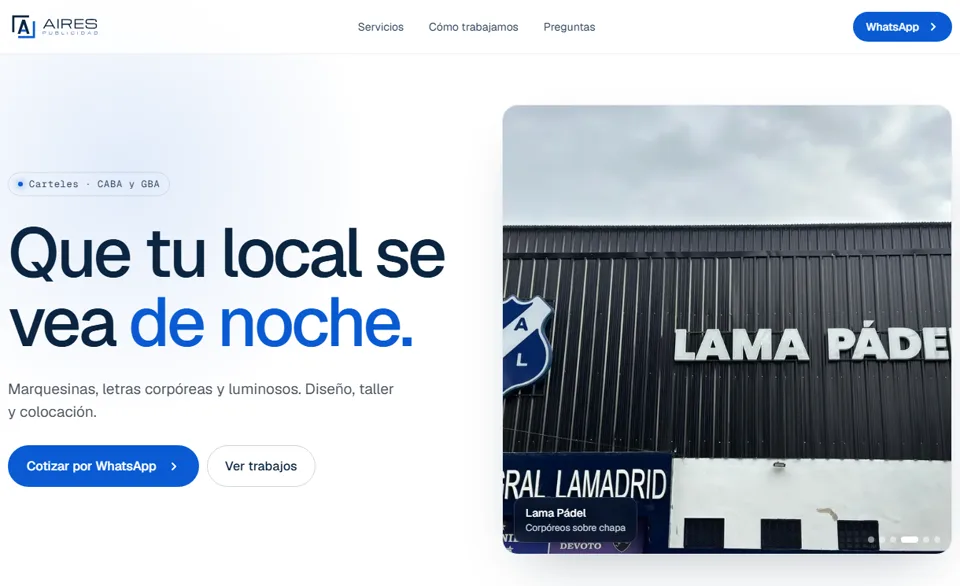
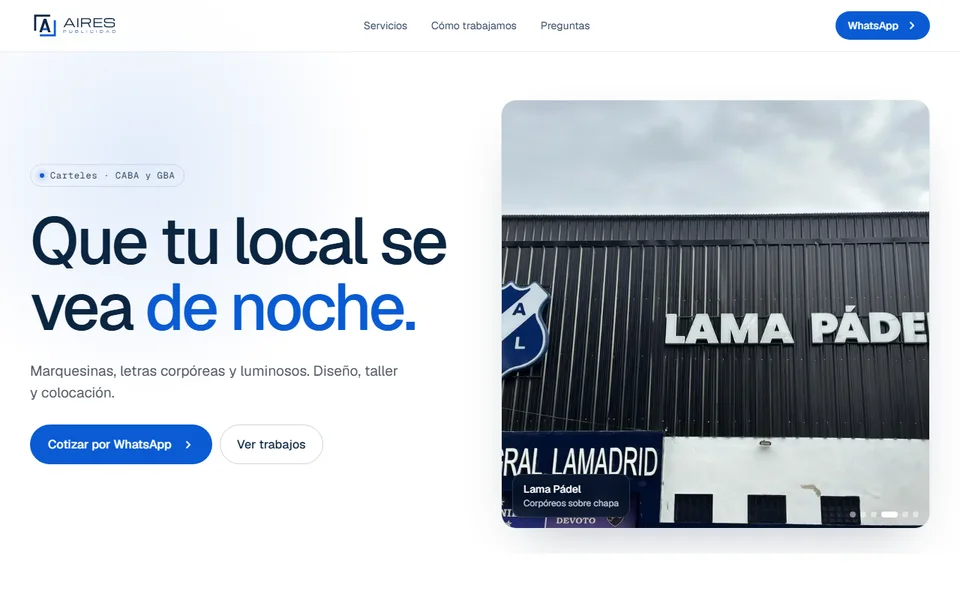
feat(diseno): paleta clara/oscura, diagrama animado y fichas corregidas
- Servicios y Proceso pasan a seccion clara (.section-light redefine los
  tokens); mas contraste de texto y tarjetas solidas en las oscuras.
- Menu fijo mas opaco para que no se vea gris sobre las secciones claras.
- Animated Beam (Magic UI) en la ficha del banco de trabajo con IA.
- Aires: la ficha gira alrededor del generador de presupuestos (56 h/mes,
  dato del cliente). Capturas nuevas de Aires y Party Market (grilla de
  productos en vez del banner).

diff --git a/es/index.html b/es/index.html
@@ -38,7 +38,7 @@
 <link rel="preload" as="image" href="/assets/img/logo-front-base.png?v=6" type="image/png">
 <link rel="preload" as="image" href="/assets/img/logo-front-circuits.svg?v=9" type="image/svg+xml">
 <link href="https://fonts.googleapis.com/css2?family=Inter:wght@400;500;600&family=Space+Grotesk:wght@500;600;700&display=swap" rel="stylesheet">
-<link rel="stylesheet" href="/assets/css/style.css?v=17">
+<link rel="stylesheet" href="/assets/css/style.css?v=20">
 <noscript><style>.reveal{opacity:1;transform:none}.step{opacity:1}</style></noscript>
 
 <script type="application/ld+json">
@@ -253,7 +253,7 @@
   </section>
 
   <!-- ── SERVICIOS ─────────────────────────────────────────────────────── -->
-  <section id="servicios">
+  <section class="section-light" id="servicios">
     <div class="wrap">
       <div class="section-head reveal">
         <p class="eyebrow">Servicios</p>
@@ -399,7 +399,7 @@
             <p class="case-kicker">El primer negocio de Hacé tu pedido que no es un restaurante.</p>
           </header>
           <figure class="case-media">
-            <img src="/assets/img/cases/partymarket.webp?v=1" alt="El catálogo de Party Market en un celular: el banner de Halloween, el descuento en efectivo y el buscador de productos" width="798" height="1792" loading="lazy" decoding="async">
+            <img src="/assets/img/cases/partymarket.webp?v=2" alt="El catálogo de Party Market en un celular: el banner de Halloween, el descuento en efectivo y el buscador de productos" width="960" height="600" loading="lazy" decoding="async">
           </figure>
           <dl class="case-body">
             <div>
@@ -423,28 +423,28 @@
         <article class="card case case-lg beam reveal">
           <header class="case-head">
             <span class="case-client">Aires Publicidad · cartelería</span>
-            <h3>airespublicidad.com.ar</h3>
-            <p class="case-kicker">Una landing que se puede rediseñar sin perder la medición.</p>
+            <h3>Generador de presupuestos y landing</h3>
+            <p class="case-kicker">Un generador de presupuestos que le devuelve al vendedor 56 horas por mes.</p>
           </header>
           <figure class="case-media">
-            <img src="/assets/img/cases/aires.webp?v=1" alt="La home de Aires Publicidad: el título, el botón para cotizar por WhatsApp y la foto de un cartel colocado" width="960" height="586" loading="lazy" decoding="async">
+            <img src="/assets/img/cases/aires.webp?v=2" alt="La home de Aires Publicidad: el título, el botón para cotizar por WhatsApp y la foto de un cartel colocado" width="960" height="600" loading="lazy" decoding="async">
           </figure>
           <dl class="case-body">
             <div>
               <dt>El problema</dt>
-              <dd>La landing sale de una herramienta de diseño y se reemplaza entera en cada rediseño, así que todo lo agregado a mano (SEO, medición, limpieza) desaparecía con el siguiente export. Además, la conversión del formulario se disparaba apenas alguien tipeaba una letra.</dd>
+              <dd>Armar cada presupuesto le comía horas del mes al vendedor. Además, la landing que trae las consultas perdía el SEO y la medición cada vez que se regeneraba el diseño.</dd>
             </div>
             <div>
               <dt>Lo que construimos</dt>
-              <dd>Un Worker de Cloudflare que reescribe el HTML al vuelo: títulos, datos estructurados, medición y ajustes de imágenes se inyectan en cada request y el archivo de diseño queda intacto. El clic en WhatsApp llega a Meta desde el navegador y desde el servidor con el mismo ID de evento, el formulario llega por mail y las siete URLs del sitio anterior redirigen conservando el identificador del clic del anuncio. Detrás de un código de acceso, un generador de presupuestos dibuja el PDF como texto vectorial.</dd>
+              <dd>Un generador de presupuestos detrás de un código de acceso: el vendedor carga los ítems y obtiene un PDF con la marca, dibujado como texto vectorial, y lo envía por WhatsApp o por mail con el detalle ya escrito. Alrededor, un Worker de Cloudflare inyecta el SEO y la medición en la landing en cada request, y el clic en WhatsApp llega a Meta desde el navegador y desde el servidor.</dd>
             </div>
             <div class="case-result">
               <dt>Resultado</dt>
-              <dd>Regenerar el diseño ya no borra nada, y la conversión del formulario cuenta solo los envíos confirmados. La página pesa 1,88 MB en un celular, y el PDF del presupuesto pasó de una imagen borrosa de 380 KB a 52 KB de texto que se puede buscar.</dd>
+              <dd>El generador le ahorra al vendedor 56 horas por mes. Cada PDF pesa 52 KB con texto nítido que se puede buscar, y rediseñar la landing ya no borra su medición.</dd>
             </div>
           </dl>
           <ul class="case-tags">
-            <li>Cloudflare Workers</li><li>Meta CAPI</li><li>GTM y GA4</li><li>jsPDF</li>
+            <li>Generador de presupuestos</li><li>jsPDF</li><li>Cloudflare Workers</li><li>Meta CAPI</li>
           </ul>
         </article>
 
@@ -531,6 +531,9 @@
         </article>
 
         <article class="card case reveal" style="--i:2">
+          <figure class="case-media case-diagram">
+            <svg viewBox="0 0 400 250" role="img" aria-label="Diagrama: los manuales de Meta, Google, SEO, email, copy y propuestas llegan a la IA, que trabaja con la memoria de un solo cliente a la vez"><path class="beam-base" d="M100 22 C150 22 150 125 170 125"/><path class="beam-flow" style="--d:-0.00s" d="M100 22 C150 22 150 125 170 125"/><path class="beam-base" d="M100 63 C150 63 150 125 170 125"/><path class="beam-flow" style="--d:-0.43s" d="M100 63 C150 63 150 125 170 125"/><path class="beam-base" d="M100 104 C150 104 150 125 170 125"/><path class="beam-flow" style="--d:-0.86s" d="M100 104 C150 104 150 125 170 125"/><path class="beam-base" d="M100 145 C150 145 150 125 170 125"/><path class="beam-flow" style="--d:-1.29s" d="M100 145 C150 145 150 125 170 125"/><path class="beam-base" d="M100 186 C150 186 150 125 170 125"/><path class="beam-flow" style="--d:-1.72s" d="M100 186 C150 186 150 125 170 125"/><path class="beam-base" d="M100 227 C150 227 150 125 170 125"/><path class="beam-flow" style="--d:-2.15s" d="M100 227 C150 227 150 125 170 125"/><path class="beam-base" d="M230 125 L258 125"/><path class="beam-flow beam-out" d="M230 125 L258 125"/><g class="beam-node"><rect x="4" y="7" width="96" height="30" rx="15"/><text x="52" y="27">Meta</text></g><g class="beam-node"><rect x="4" y="48" width="96" height="30" rx="15"/><text x="52" y="68">Google</text></g><g class="beam-node"><rect x="4" y="89" width="96" height="30" rx="15"/><text x="52" y="109">SEO</text></g><g class="beam-node"><rect x="4" y="130" width="96" height="30" rx="15"/><text x="52" y="150">Email</text></g><g class="beam-node"><rect x="4" y="171" width="96" height="30" rx="15"/><text x="52" y="191">Copy</text></g><g class="beam-node"><rect x="4" y="212" width="96" height="30" rx="15"/><text x="52" y="232">Propuestas</text></g><g class="beam-hub"><circle cx="200" cy="125" r="30"/><text x="200" y="132">IA</text></g><g class="beam-node beam-node-out"><rect x="258" y="105" width="138" height="40" rx="20"/><text x="327" y="121">Memoria</text><text x="327" y="137">del cliente</text></g></svg>
+          </figure>
           <header class="case-head">
             <span class="case-client">Worker · operación diaria</span>
             <h3>El banco de trabajo con IA de la agencia</h3>
@@ -695,7 +698,7 @@
   </section>
 
   <!-- ── PROCESO ───────────────────────────────────────────────────────── -->
-  <section class="process" id="proceso">
+  <section class="process section-light" id="proceso">
     <div class="wrap process-layout">
       <div class="process-sticky">
         <div class="reveal">

diff --git a/index.html b/index.html
@@ -38,7 +38,7 @@
 <link rel="preload" as="image" href="/assets/img/logo-front-base.png?v=6" type="image/png">
 <link rel="preload" as="image" href="/assets/img/logo-front-circuits.svg?v=9" type="image/svg+xml">
 <link href="https://fonts.googleapis.com/css2?family=Inter:wght@400;500;600&family=Space+Grotesk:wght@500;600;700&display=swap" rel="stylesheet">
-<link rel="stylesheet" href="/assets/css/style.css?v=17">
+<link rel="stylesheet" href="/assets/css/style.css?v=20">
 <noscript><style>.reveal{opacity:1;transform:none}.step{opacity:1}</style></noscript>
 
 <script type="application/ld+json">
@@ -253,7 +253,7 @@
   </section>
 
   <!-- ── SERVICES ──────────────────────────────────────────────────────── -->
-  <section id="services">
+  <section class="section-light" id="services">
     <div class="wrap">
       <div class="section-head reveal">
         <p class="eyebrow">Services</p>
@@ -399,7 +399,7 @@
             <p class="case-kicker">The first business on Hacé tu pedido that is not a restaurant.</p>
           </header>
           <figure class="case-media">
-            <img src="/assets/img/cases/partymarket.webp?v=1" alt="The Party Market catalogue on a phone: the Halloween banner, the cash discount and the product search" width="798" height="1792" loading="lazy" decoding="async">
+            <img src="/assets/img/cases/partymarket.webp?v=2" alt="The Party Market catalogue on a phone: the Halloween banner, the cash discount and the product search" width="960" height="600" loading="lazy" decoding="async">
           </figure>
           <dl class="case-body">
             <div>
@@ -423,28 +423,28 @@
         <article class="card case case-lg beam reveal">
           <header class="case-head">
             <span class="case-client">Aires Publicidad · signage</span>
-            <h3>airespublicidad.com.ar</h3>
-            <p class="case-kicker">A landing page that can be redesigned without losing its measurement.</p>
+            <h3>Quote generator and landing page</h3>
+            <p class="case-kicker">A quote generator that gives the sales rep back 56 hours a month.</p>
           </header>
           <figure class="case-media">
-            <img src="/assets/img/cases/aires.webp?v=1" alt="The Aires Publicidad home page: the headline, the WhatsApp quote button and a photo of an installed sign" width="960" height="586" loading="lazy" decoding="async">
+            <img src="/assets/img/cases/aires.webp?v=2" alt="The Aires Publicidad home page: the headline, the WhatsApp quote button and a photo of an installed sign" width="960" height="600" loading="lazy" decoding="async">
           </figure>
           <dl class="case-body">
             <div>
               <dt>The problem</dt>
-              <dd>The landing page comes out of a design tool and is replaced in full on every redesign, so anything added by hand (SEO, tracking, cleanup) vanished with the next export. On top of that, the form conversion fired as soon as someone typed a single letter.</dd>
+              <dd>Putting together every quote ate into the sales rep’s month. On top of that, the landing page that brings in the leads lost its SEO and tracking every time the design was regenerated.</dd>
             </div>
             <div>
               <dt>What we built</dt>
-              <dd>A Cloudflare Worker that rewrites the HTML on the fly: titles, structured data, tracking and image fixes are injected at request time and the design file stays untouched. WhatsApp clicks reach Meta from the browser and from the server with the same event ID, the contact form arrives by email, and the seven old URLs redirect keeping the ad click ID. Behind an access code, a quote generator draws its PDF as vector text.</dd>
+              <dd>A quote generator behind an access code: the rep loads the items and gets a branded PDF drawn as vector text, then sends it by WhatsApp or email with the detail already written. Around it, a Cloudflare Worker injects SEO and tracking into the landing page at request time, and WhatsApp clicks reach Meta from the browser and from the server.</dd>
             </div>
             <div class="case-result">
               <dt>Result</dt>
-              <dd>Regenerating the design no longer wipes anything out, and the form conversion counts only confirmed submissions. The page weighs 1.88 MB on a phone, and a quote PDF went from a 380 KB blurry image to 52 KB of searchable text.</dd>
+              <dd>The generator saves the sales rep 56 hours a month. Each PDF weighs 52 KB with sharp, searchable text, and redesigning the landing page no longer wipes out its measurement.</dd>
             </div>
           </dl>
           <ul class="case-tags">
-            <li>Cloudflare Workers</li><li>Meta CAPI</li><li>GTM and GA4</li><li>jsPDF</li>
+            <li>Quote generator</li><li>jsPDF</li><li>Cloudflare Workers</li><li>Meta CAPI</li>
           </ul>
         </article>
 
@@ -531,6 +531,9 @@
         </article>
 
         <article class="card case reveal" style="--i:2">
+          <figure class="case-media case-diagram">
+            <svg viewBox="0 0 400 250" role="img" aria-label="Diagram: Meta, Google, SEO, email, copy and proposals playbooks flow into the AI, which works with one client’s memory at a time"><path class="beam-base" d="M100 22 C150 22 150 125 170 125"/><path class="beam-flow" style="--d:-0.00s" d="M100 22 C150 22 150 125 170 125"/><path class="beam-base" d="M100 63 C150 63 150 125 170 125"/><path class="beam-flow" style="--d:-0.43s" d="M100 63 C150 63 150 125 170 125"/><path class="beam-base" d="M100 104 C150 104 150 125 170 125"/><path class="beam-flow" style="--d:-0.86s" d="M100 104 C150 104 150 125 170 125"/><path class="beam-base" d="M100 145 C150 145 150 125 170 125"/><path class="beam-flow" style="--d:-1.29s" d="M100 145 C150 145 150 125 170 125"/><path class="beam-base" d="M100 186 C150 186 150 125 170 125"/><path class="beam-flow" style="--d:-1.72s" d="M100 186 C150 186 150 125 170 125"/><path class="beam-base" d="M100 227 C150 227 150 125 170 125"/><path class="beam-flow" style="--d:-2.15s" d="M100 227 C150 227 150 125 170 125"/><path class="beam-base" d="M230 125 L258 125"/><path class="beam-flow beam-out" d="M230 125 L258 125"/><g class="beam-node"><rect x="4" y="7" width="96" height="30" rx="15"/><text x="52" y="27">Meta</text></g><g class="beam-node"><rect x="4" y="48" width="96" height="30" rx="15"/><text x="52" y="68">Google</text></g><g class="beam-node"><rect x="4" y="89" width="96" height="30" rx="15"/><text x="52" y="109">SEO</text></g><g class="beam-node"><rect x="4" y="130" width="96" height="30" rx="15"/><text x="52" y="150">Email</text></g><g class="beam-node"><rect x="4" y="171" width="96" height="30" rx="15"/><text x="52" y="191">Copy</text></g><g class="beam-node"><rect x="4" y="212" width="96" height="30" rx="15"/><text x="52" y="232">Proposals</text></g><g class="beam-hub"><circle cx="200" cy="125" r="30"/><text x="200" y="132">AI</text></g><g class="beam-node beam-node-out"><rect x="258" y="105" width="138" height="40" rx="20"/><text x="327" y="121">Client</text><text x="327" y="137">memory</text></g></svg>
+          </figure>
           <header class="case-head">
             <span class="case-client">Worker · daily operation</span>
             <h3>The agency's AI workbench</h3>
@@ -695,7 +698,7 @@
   </section>
 
   <!-- ── PROCESS ───────────────────────────────────────────────────────── -->
-  <section class="process" id="process">
+  <section class="process section-light" id="process">
     <div class="wrap process-layout">
       <div class="process-sticky">
         <div class="reveal">

diff --git a/assets/css/style.css b/assets/css/style.css
@@ -10,19 +10,19 @@
   --navy: #2D3E50;
 
   /* surfaces */
-  --bg: #05101C;
-  --bg-2: #071726;
-  --bg-3: #0A1E31;
-  --panel: rgba(45, 62, 80, 0.16);
-  --panel-hi: rgba(45, 62, 80, 0.28);
-  --line: rgba(0, 174, 239, 0.12);
-  --line-hi: rgba(0, 174, 239, 0.35);
+  --bg: #040C16;
+  --bg-2: #08182A;
+  --bg-3: #0C2136;
+  --panel: #0D2034;
+  --panel-hi: #12293F;
+  --line: rgba(120, 190, 235, 0.14);
+  --line-hi: rgba(0, 174, 239, 0.45);
 
   /* text */
   --white: #FFFFFF;
-  --text: #DCE6EF;
-  --muted: #8EA1B4;
-  --faint: #5C6E80;
+  --text: #E4ECF3;
+  --muted: #A6B6C6;
+  --faint: #7A8DA2;
 
   /* type */
   --font-body: 'Inter', system-ui, -apple-system, 'Segoe UI', sans-serif;
@@ -221,7 +221,7 @@ section { position: relative; padding: clamp(80px, 11vw, 140px) 0; }
   transition: background 0.35s, border-color 0.35s;
 }
 .nav.is-stuck {
-  background: rgba(5, 16, 28, 0.78);
+  background: rgba(4, 12, 22, 0.94);
   backdrop-filter: blur(18px) saturate(140%);
   -webkit-backdrop-filter: blur(18px) saturate(140%);
   border-bottom-color: var(--line);
@@ -1232,3 +1232,62 @@ section { position: relative; padding: clamp(80px, 11vw, 140px) 0; }
   .beam::after, .btn-primary::after { animation: none; }
   .flicker-grid { display: none; }
 }
+
+/* Animated Beam (Magic UI): los manuales de la agencia fluyen hacia la IA. */
+.case-diagram { display: grid; place-items: center; background: radial-gradient(circle at 50% 50%, rgba(0, 174, 239, 0.10), var(--bg-3) 70%); }
+.case-diagram svg { width: 100%; height: 100%; }
+.case-diagram text { font-family: var(--font-display); font-size: 14px; font-weight: 600; fill: var(--text); text-anchor: middle; }
+.beam-base { fill: none; stroke: rgba(142, 161, 180, 0.18); stroke-width: 1.4; }
+.beam-flow {
+  fill: none;
+  stroke: var(--cyan-bright);
+  stroke-width: 2;
+  stroke-linecap: round;
+  stroke-dasharray: 18 220;
+  animation: beam-flow 2.6s linear infinite;
+  animation-delay: var(--d, 0s);
+  filter: drop-shadow(0 0 3px rgba(79, 216, 255, 0.8));
+}
+.beam-out { animation-duration: 1.3s; }
+@keyframes beam-flow { from { stroke-dashoffset: 238; } to { stroke-dashoffset: 0; } }
+.beam-node rect { fill: var(--bg-2); stroke: var(--line-hi); }
+.beam-node-out rect { fill: rgba(0, 174, 239, 0.12); stroke: var(--cyan); }
+.beam-hub circle { fill: var(--bg-2); stroke: var(--cyan); stroke-width: 1.5; animation: hub-pulse 2.6s ease-in-out infinite; }
+.beam-hub text { font-size: 19px; fill: var(--cyan-bright); }
+@keyframes hub-pulse { 50% { stroke-width: 3; filter: drop-shadow(0 0 8px rgba(0, 174, 239, 0.7)); } }
+@media (prefers-reduced-motion: reduce) {
+  .beam-flow { animation: none; opacity: 0; }
+  .beam-hub circle { animation: none; }
+}
+
+/* ── Secciones claras ──────────────────────────────────────────────────────
+   Servicios y Proceso van sobre papel claro para cortar la fila de azules
+   oscuros: la página alterna oscuro / claro y cada sección se lee como un
+   bloque. Se redefinen los tokens, así los componentes no cambian. */
+.section-light {
+  --white: #0A1724;
+  --text: #22364A;
+  --muted: #4A5E73;
+  --faint: #6B7F94;
+  --cyan: #0088C2;
+  --cyan-bright: #00A3E0;
+  --cyan-deep: #006F9E;
+  --panel: #FFFFFF;
+  --panel-hi: #FFFFFF;
+  --line: rgba(10, 23, 36, 0.10);
+  --line-hi: rgba(0, 136, 194, 0.45);
+  --bg-3: #E3EBF2;
+  background: #EEF3F7;
+  color: var(--text);
+  border-block: 0;
+}
+.section-light .card,
+.section-light .step { box-shadow: 0 1px 2px rgba(10, 23, 36, 0.05), 0 12px 32px -20px rgba(10, 23, 36, 0.25); }
+.section-light .card:hover { box-shadow: 0 2px 4px rgba(10, 23, 36, 0.06), 0 24px 48px -24px rgba(0, 110, 160, 0.35); }
+.section-light .card::before { background: radial-gradient(340px circle at var(--mx, 50%) var(--my, 50%), rgba(0, 163, 224, 0.10), transparent 65%); }
+.section-light .card-icon { background: rgba(0, 136, 194, 0.08); }
+.section-light .step { background: #F8FAFC; opacity: 0.7; }
+.section-light .step.is-active { background: #FFFFFF; opacity: 1; }
+.section-light .step li { background: #EEF5FA; color: #22364A; }
+.section-light .process-rail { background: rgba(10, 23, 36, 0.10); }
+.section-light .process-mark { opacity: 0.18; filter: grayscale(0.2) brightness(0.55); }

diff --git a/README.md b/README.md
@@ -37,8 +37,8 @@ construimos** y **el resultado**. Cinco fichas grandes (`.case-lg`, a dos column
 de 900 px) y nueve en grilla de tres.
 
 Todo lo que se afirma ahí sale de los repos de cada proyecto: las cifras (251 páginas,
-158 experiencias, 314 tests, 89 documentos, 45 cuentas, ocho integraciones) (y en las fichas nuevas 250 productos, 158 animatrónicos e inflables, 1,88 MB y
-380 → 52 KB) son las que
+158 experiencias, 314 tests, 89 documentos, 45 cuentas, ocho integraciones) (y en las fichas nuevas 250 productos, 158 animatrónicos e inflables, 56 horas por mes y 52 KB;
+las 56 horas son el ahorro que reportó el cliente, no sale de un README) son las que
 declaran sus READMEs, no estimaciones. Si un proyecto cambia, el número cambia acá
 también, y hay que tocarlo en las **dos** páginas.
 
@@ -102,6 +102,18 @@ no capturar el producto. Se dejan sin media hasta tener una grabación del flujo
 `gymcounter.vercel.app` **no es** la app de GymCounter: es una app alemana sin relación.
 GymCounter no tiene deploy público documentado, por eso la captura sale de local.
 
+## Paleta: oscuro y claro alternados
+
+Servicios y Proceso llevan `.section-light`: fondo papel (`#EEF3F7`), tarjetas blancas y
+texto tinta. La clase **redefine los tokens** (`--white`, `--text`, `--muted`, `--panel`,
+`--line`, `--cyan`…), así que los componentes de adentro no tienen reglas propias para el
+modo claro: si se suma una sección clara nueva, alcanza con la clase. Sobre claro el cyan
+de marca baja a `#0088C2`, porque `#00AEEF` sobre blanco no llega al contraste de texto.
+
+En las secciones oscuras el texto secundario (`--muted`) es `#A6B6C6` y las tarjetas son
+un plano sólido (`--panel`), no una transparencia: con las transparencias de antes todo
+quedaba azul sobre azul y las secciones no se distinguían.
+
 ## Interacciones (assets/js/app.js)
 
 | Qué | Dónde |
@@ -120,6 +132,7 @@ GymCounter no tiene deploy público documentado, por eso la captura sale de loca
 | Luz que recorre el borde (Border Beam) | `.beam`: casos destacados y panel de contacto |
 | Brillo periódico en los botones principales (Shimmer Button) | `.btn-primary::after` |
 | Grilla titilante en canvas, sólo mientras está a la vista (Flickering Grid) | `.flicker-grid`, la crea el JS en `.contact` |
+| Diagrama de conexiones animado (Animated Beam) | `.case-diagram`, en la ficha del banco de trabajo con IA |
 
 Los cinco últimos son efectos de [Magic UI](https://magicui.design/docs/components)
 reescritos en CSS y JS vanilla: la librería es React + Tailwind y este sitio no tiene
